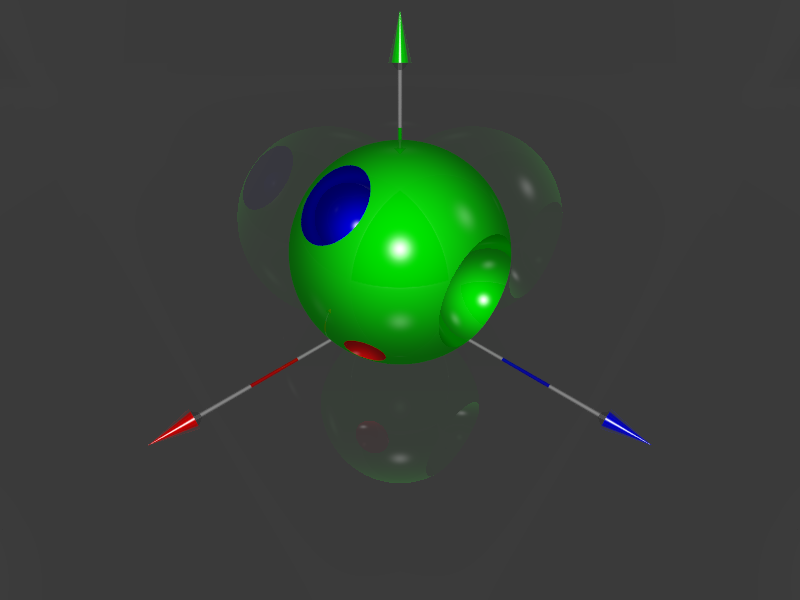
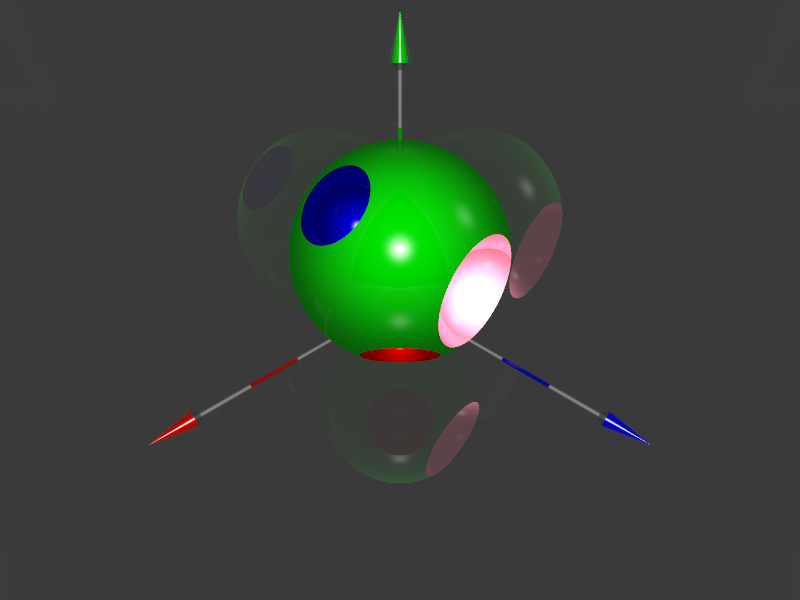
Cleanup

Changed region(s): [[0.4375, 0.33, 0.7188, 0.63], [0.5312, 0.66, 0.625, 0.81]]

diff --git a/examples/spheres_csg.m b/examples/spheres_csg.m
@@ -16,7 +16,8 @@ close all;
 %      dataObjs(1) - Light
 %      dataObjs(2).XData; ...; dataObjs(2).CData
 % 9. Lights
-% 10. All shapes
+% 10. Check preview axis misleading
+% 11. All shapes
 
 pov = pov( "3.7",...
            "C:/Program Files/POV-Ray/v3.7/bin/pvengine64.exe", ...
@@ -32,7 +33,7 @@ pov.global_settings("assumed_gamma 1");
 pov.include("shapes");
 
 pov.camera();
-%pov.camera('angle', 35, 'location', [12 12 12], 'look_at', [0 1 0]);
+% pov.camera('angle', 35, 'location', [12 12 5], 'look_at', [0 1 0]);
 % pov.camera('location', [12 12 12], 'look_at', [0 1 0]);
 % pov.camera('angle', 35, 'look_at', [0 1 0]);
 % pov.camera("angle", 15, 'location', [12 12 12]);
@@ -45,7 +46,7 @@ pov.light();
 % tex_axis_y = pov.declare("tex_axis_y", pov.texture([0 1 0], "phong 1 reflection {0.10 metallic 0.4}"));
 % tex_axis_z = pov.declare("tex_axis_z", pov.texture([0 0 1], "phong 1 reflection {0.10 metallic 0.4}"));
 pov.axis();
-% pov.axis([5 5 5], tex_axis_common, tex_axis_x, tex_axis_y, tex_axis_z);
+% pov.axis('size', [5 6 7], 'tex_common', pov.tex_axis_x, 'tex_x', pov.tex_axis_z);
 
 % Axis planes
 tex_plane = pov.texture([0.3 0.3 0.3], "phong 1 reflection {0.1 metallic 0.2}");
@@ -61,14 +62,15 @@ pov.plane([0,0,1], 0, tex_plane);
 tex_red   = pov.declare("tex_red",   pov.texture([1 0 0], "phong 1 reflection {0.10 metallic 0.4}"));
 tex_green = pov.declare("tex_green", pov.texture([0 1 0], "phong 1 reflection {0.10 metallic 0.4}"));
 tex_blue  = pov.declare("tex_blue",  pov.texture([0 0 1], "phong 1 reflection {0.10 metallic 0.4}"));
+tex_pink  = pov.declare("tex_pink",  pov.texture([8 2 3], "phong 1 reflection {0.10 metallic 0.4}"));
 
 pov.difference_begin();
     %pov.sphere();
     pov.sphere('position', [1 1 1], 'radius', 2, 'texture', tex_green, 'transform', [1 1 1; 0 0 0; 0 1 0]);
     pov.union_begin();
-          pov.sphere('position', [3 1 2], 'radius', 0.6, 'texture', tex_red,   'transform', [1 1 1; 0 0 0; 0 0 0]);
-          pov.sphere('position', [2 3 1], 'radius', 0.8, 'texture', tex_blue,  'transform', [1 1 1; 0 0 0; 0 0 0]);
-          pov.sphere('position', [1 2 3], 'radius', 1.0, 'texture', tex_green, 'transform', [1 1 1; 0 0 0; 0 0 0]);
+          pov.sphere('position', [2 1 2], 'radius', 0.7, 'texture', tex_red,  'transform', [1 1 1; 0 0 0; 0 0 0]);
+          pov.sphere('position', [2 3 1], 'radius', 0.8, 'texture', tex_blue, 'transform', [1 1 1; 0 0 0; 0 0 0]);
+          pov.sphere('position', [1 2 3], 'radius', 1.0, 'texture', tex_pink, 'transform', [1 1 1; 0 0 0; 0 0 0]);
      pov.union_end();
 pov.difference_end();
 
